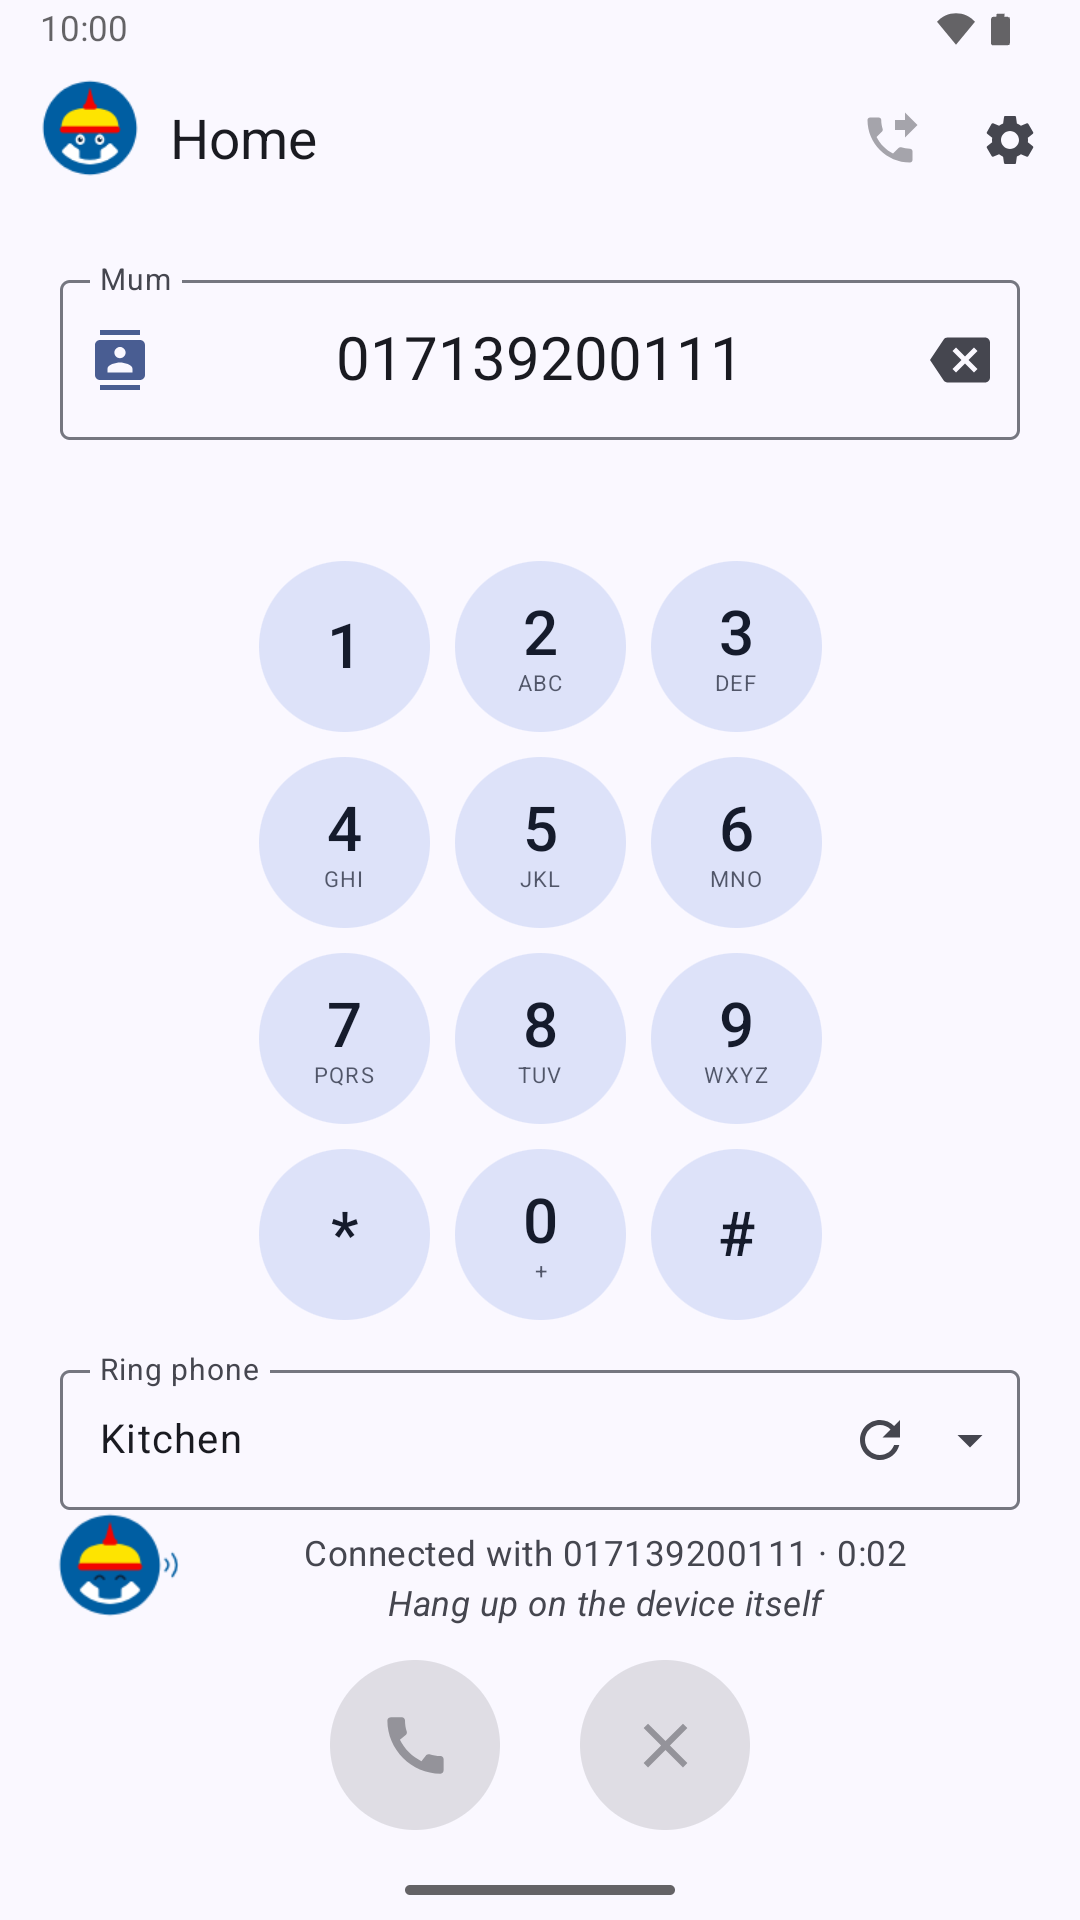
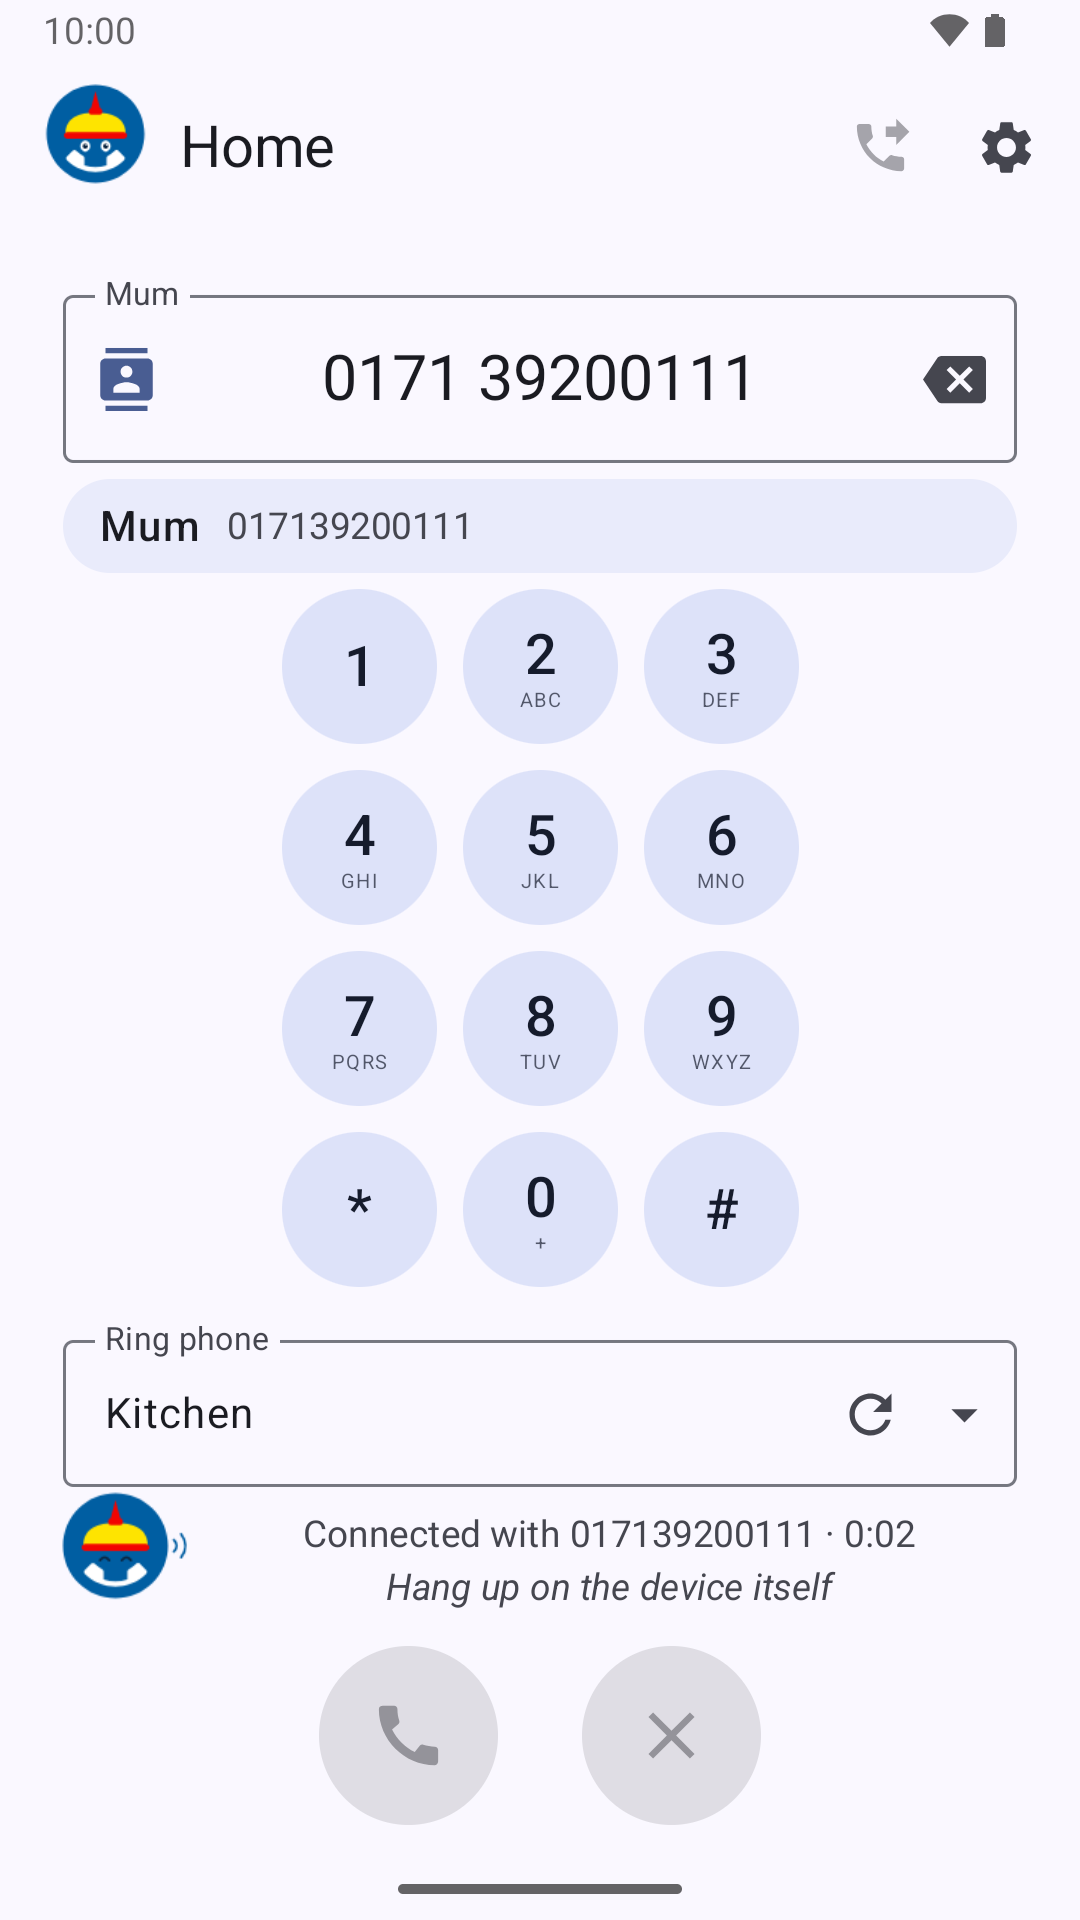
version 1.8.0 (version code 12): its "What's new" note in all seven languages (Recent by day with the missed-calls filter, call buttons in the lists, the number grouped and named and the last number on an empty field, Undo for speed dials, the keypad beside the rest when turned, the fix for taps tha

diff --git a/app/src/main/java/org/rustygnome/pickelhaube/ui/RecentsTab.kt b/app/src/main/java/org/rustygnome/pickelhaube/ui/RecentsTab.kt
@@ -40,6 +40,8 @@ import androidx.compose.material3.MaterialTheme
 import androidx.compose.material3.Text
 import androidx.compose.material3.TextButton
 import androidx.compose.runtime.Composable
+import androidx.compose.runtime.saveable.rememberSaveable
+import androidx.compose.runtime.LaunchedEffect
 import androidx.compose.runtime.getValue
 import androidx.compose.runtime.mutableStateOf
 import androidx.compose.runtime.remember
@@ -253,7 +255,17 @@ fun RecentsTab(
                 val days = remember(shown, now) { byDay(shown, ZoneId.systemDefault()) }
                 val today = remember(now) { Instant.ofEpochMilli(now).atZone(ZoneId.systemDefault()).toLocalDate() }
                 Box(Modifier.fillMaxSize()) {
-                    LazyColumn(Modifier.fillMaxSize(), state = rememberLazyListState()) {
+                    val listState = rememberLazyListState()
+                    // The filter switched: the list from its top. (The days' headers have keys, so the list
+                    // would otherwise keep the day shown before at the top – and the calls above it out of sight.)
+                    var listedMissedOnly by rememberSaveable { mutableStateOf(missedOnly) }
+                    LaunchedEffect(missedOnly) {
+                        if (missedOnly != listedMissedOnly) {
+                            listedMissedOnly = missedOnly
+                            listState.scrollToItem(0)
+                        }
+                    }
+                    LazyColumn(Modifier.fillMaxSize(), state = listState) {
                         days.forEach { (day, dayCalls) ->
                             stickyHeader(key = day.toString()) { DayHeader(times.day(day, today)) }
                             items(dayCalls) { call ->

diff --git a/app/src/main/java/org/rustygnome/pickelhaube/data/WhatsNew.kt b/app/src/main/java/org/rustygnome/pickelhaube/data/WhatsNew.kt
@@ -18,6 +18,7 @@ object WhatsNew {
     val NOTES: Map<Int, Note> = mapOf(
         8 to Note("1.6.0", R.array.whats_new_8),
         11 to Note("1.7.0", R.array.whats_new_11),
+        12 to Note("1.8.0", R.array.whats_new_12),
     )
 
     /** At most this many points at once, when several versions were skipped. */
